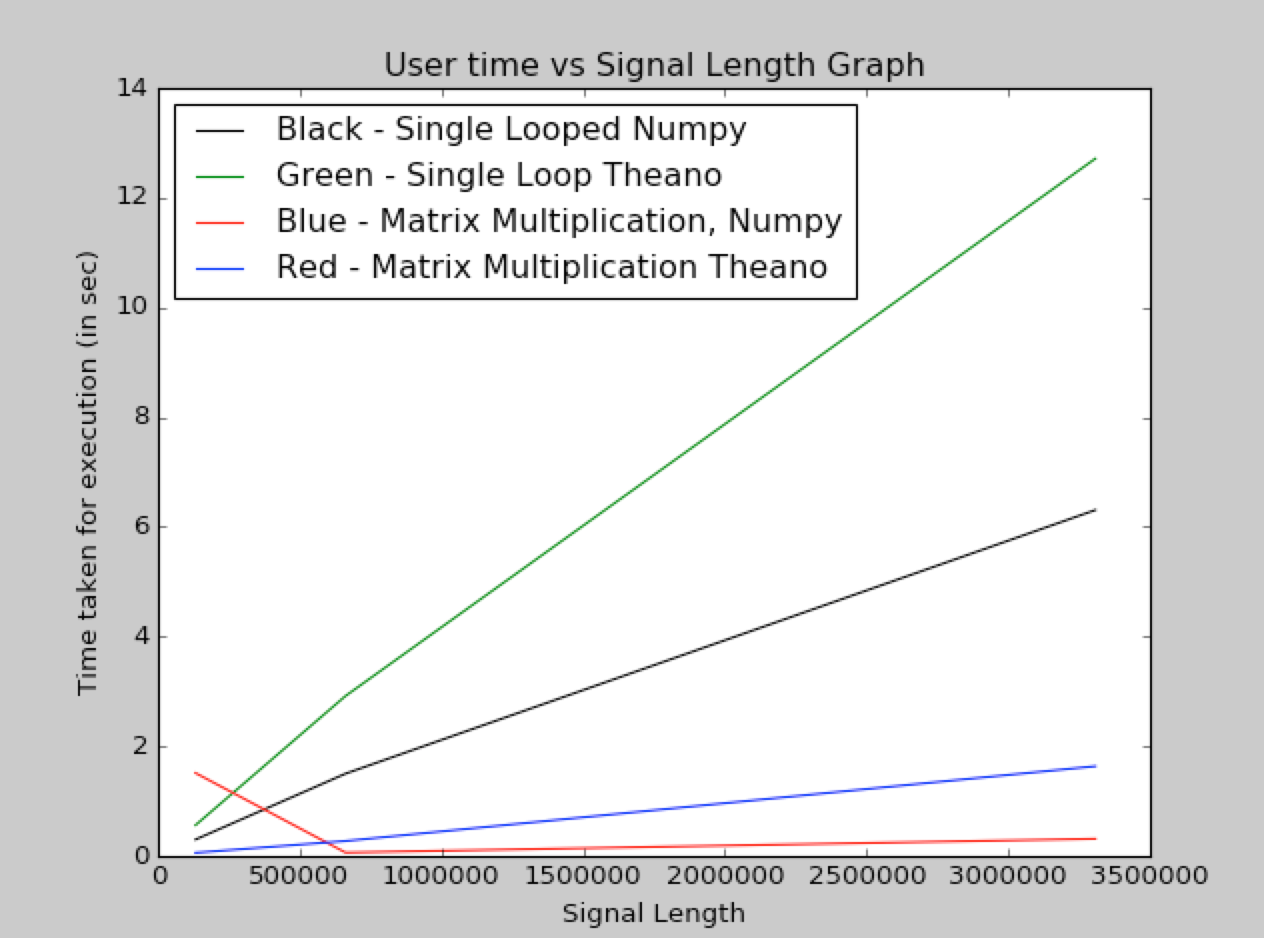
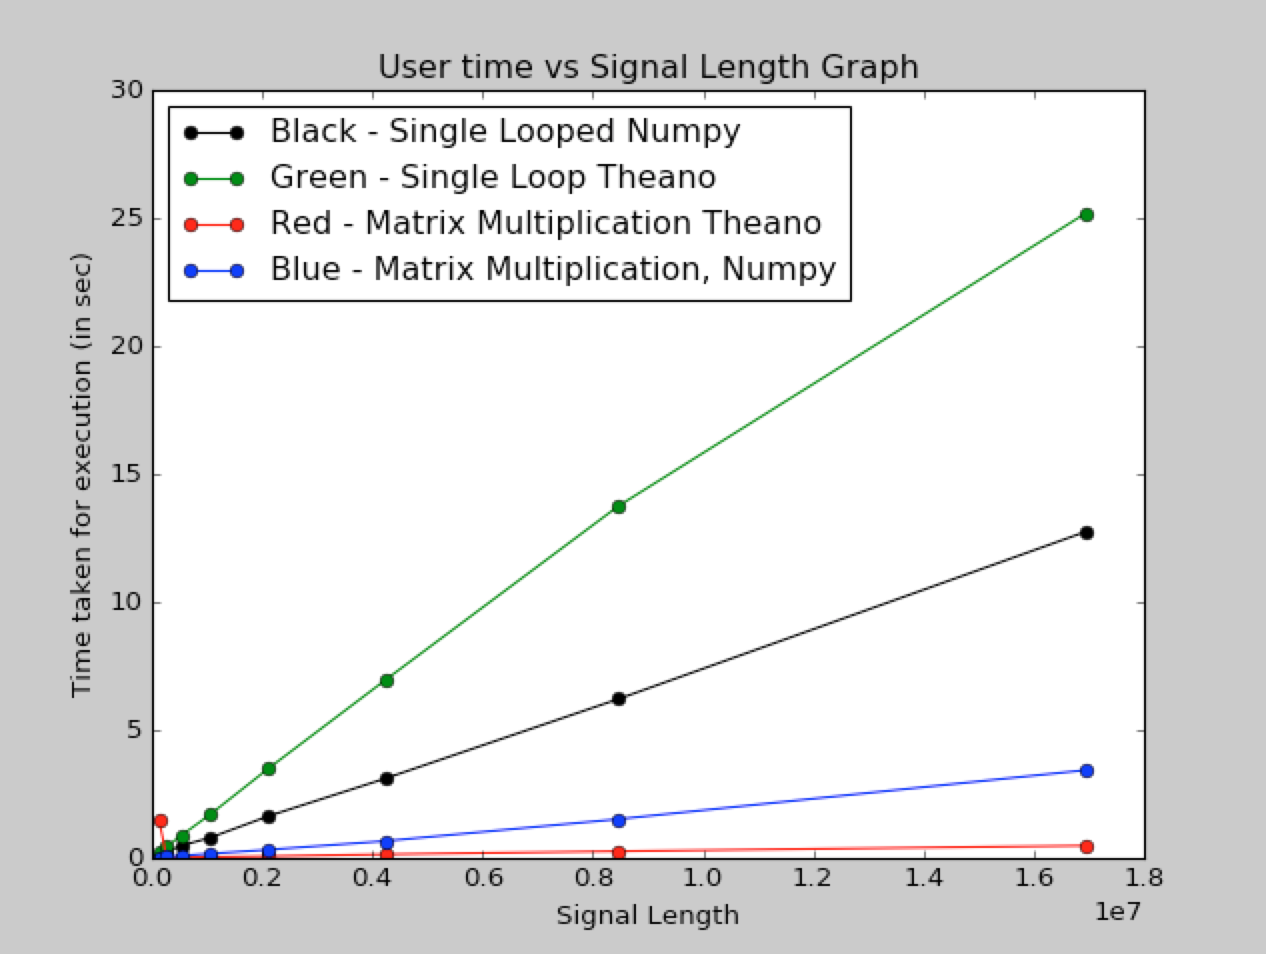
Symbols on graph

diff --git a/compute_stfts.py b/compute_stfts.py
@@ -76,7 +76,7 @@ def pre_compute_kernels(sample_freq, frequency_range, default_width, output="ker
     return kernel, max(comp_width)
 
 
-def threeloop_cqt(signal, sample_freq, channels=1):
+def threeloop_cqt(signal, max_width, time_range, frequency_range, kernel_details=None, channels=1):
     '''
     Computes the CQT of a signal using three loops.
     This is the most primitive version of the algorithm.
@@ -88,9 +88,6 @@ def threeloop_cqt(signal, sample_freq, channels=1):
     sample_freq:
         The sampling frequency of the signal
     '''
-    max_width = 1/(.03*100)*sample_freq
-    frequency_range = 100.*2.**(1./(12. * channels)*np.arange(0, 50, (1.0/channels)))
-    time_range = range(0, len(signal) - int(max_width)), int(max_width/2)
     output = np.zeros((len(time_range), len(frequency_range)), dtype=np.complex)
     prior = resource.getrusage(resource.RUSAGE_SELF)
     for m, t in enumerate(time_range):
@@ -105,13 +102,11 @@ def threeloop_cqt(signal, sample_freq, channels=1):
     print("User time for three loop computation : " + str(post.ru_utime - prior.ru_utime))
     return output, user_time
 
-def cqt_two_with_kernel(signal, s_freq, channels=1):
+def cqt_two_with_kernel(signal, max_width, time_range, frequency_range, kernel_details=None, channels=1):
     '''
     Computes the CQT of the signal using two loops without the precomputation of the kernels
     '''
-    max_width = 1/(.03*100)*s_freq
-    freq = 100.*2.**(1./(12. * channels)*np.arange(0, 50, (1.0/channels)))
-    time = range(0, int(len(signal) - max_width), int(max_width/2))
+    kernel, max_width = kernel_details
     output = np.zeros((len(time), len(freq)), dtype=np.complex)
     prior = resource.getrusage(resource.RUSAGE_SELF)
     for l_1, t in enumerate(time):
@@ -129,13 +124,10 @@ def cqt_two_with_kernel(signal, s_freq, channels=1):
  
     return output, user_time
 
-def cqt_two_without_kernel(signal, s_freq, channels=1):
+def cqt_two_without_kernel(signal, max_width, time_range, frequency_range, kernel_details=None, channels=1):
     '''
     Computes the CQT of the signal using two loops with pre-computation of the kernels
     '''
-    signal_width = 1/(.03*100)*s_freq
-    freq = 100.*2.**(1./(12. * channels)*np.array(0, 50, (1.0/channels)))
-    time_list = range(0, int(len(signal) - signal_width), int(signal_width/2))
     windows, max_width= pre_compute_kernels(s_freq, freq, signal_width, "windows")
     output = np.zeros((len(time_list), len(freq)))
     i_exp = np.arange(0, max_width)
@@ -154,22 +146,15 @@ def cqt_two_without_kernel(signal, s_freq, channels=1):
         
 # windows[l_2].extend([0] * (len() - (len(my_list))))
 
-def cqt_single(signal, sample_freq, channels=1):
+def cqt_single(signal, time_range, frequency_range, kernel_details, channels=1):
     ''' 
     Compute the CQT of a signal with a single loop
     '''
-    max_width = int(1/(.03*100)*sample_freq)
-    try:
-        frequency_range = 100.*2.**(1./(12. * channels)*np.arange(0, 50, (1.0/channels)))
-    except ValueError:
-        import pdb;
-        pdb.set_trace()
-    time_list = range(0, int(len(signal) - max_width), int(max_width/2))
-    output = np.zeros((len(time_list), len(frequency_range)))
-    kernel, max_width = pre_compute_kernels(sample_freq, frequency_range, max_width, "kernel")
+    output = np.zeros((len(time_range), len(frequency_range)))
     prior = resource.getrusage(resource.RUSAGE_SELF)
-    n_sig = np.ones((len(time_list) , max_width))
-    for l_1, t in enumerate(time_list):
+    kernel, max_width = kernel_details
+    n_sig = np.ones((len(time_range) , max_width))
+    for l_1, t in enumerate(time_range):
         output[l_1] = np.sum(signal[t:t + max_width] * kernel, axis=1)
     # output = n_sig.dot(np.asarray(kernel).transpose())
     post = resource.getrusage(resource.RUSAGE_SELF)
@@ -179,21 +164,17 @@ def cqt_single(signal, sample_freq, channels=1):
 
     return output, user_time
 
-def matrix_cqt(signal, sample_freq, channels=1):
+def matrix_cqt(signal, time_range, frequency_range, kernel_details, channels=1):
     '''
     Direct computation of CQT using numpy.
     The signal matrix is constructed by advanced indexing of the
     signal vector. The CQT is the dot product of signal with the transpose of the kernel
     matrix.
     '''
-
-    max_width = int(1/(.03*100)*sample_freq)
-    frequency_range = 100.*2.**(1./(12. * channels)*np.arange(0, 50, (1.0/channels)))
-    time_list = range(0, int(len(signal) - max_width), int(max_width/2))
-    output = np.zeros((len(time_list), len(frequency_range)))
-    kernel, max_width = pre_compute_kernels(sample_freq, frequency_range, max_width, "kernel")
+    kernel, max_width = kernel_details
+    output = np.zeros((len(time_range), len(frequency_range)))
     h = int(max_width/2)
-    n = time_list[-1] + h
+    n = time_range[-1] + h
     col_index = np.arange(0, n, h)
     row_index = np.arange(max_width)
     index = col_index[:,np.newaxis] + row_index[np.newaxis, :]
@@ -207,50 +188,21 @@ def matrix_cqt(signal, sample_freq, channels=1):
     return output, user_time
 # Computation of CQT using theano.
 
-def theano_stft(signal, width, s_freq, channels=1):
-    '''
-    Slow and not of any use. Kept for record purpose
-    '''
 
-    max_width = 1/(.03*100)*s_freq
-    freq = 100.*2.**(1./(12. * channels)*np.arange(0, 50, (1.0/channels)))
-    time = range(0, int(len(signal) - max_width), int(max_width/2))
-
-    width_var = T.cscalar() #used as i in the numpy implementation
-    freq_var = T.fscalar() #used as f 
-    time_var = T.fscalar() #used as t
-    signal_var = T.fscalar() # Components of Signal
-    stft_out = T.exp(width_var * freq_var) * signal_var
-    func = theano.function([width_var, freq_var, signal_var], stft_out, allow_input_downcast=True)
-
-    output = np.zeros((len(freq), len(time)), dtype=np.complex)
-    for l_1, t in enumerate(time):
-        for l_2, f in enumerate(freq):
-            width = 1/(.03*f)*s_freq
-            for i in range(t, t+int(width)):
-
-                output[l_2, l_1] += func(i * -6.28j, f/s_freq, signal[i]).tolist()  
-
-    return output, freq, time
- 
-
-def vectorized_theano(signal, sample_freq, channels=1):
+def vectorized_theano(signal, time_range, frequency_range, kernel_details, channels=1):
     '''
     The Code is currently being tested. It's not fully implemented.
     It's being tested with memory and speed.
     '''
-    max_width = int(1/(.03*100)*sample_freq)
-    frequency_range = 100.*2.**(1./(12. * channels)*np.arange(0, 50, (1.0/channels)))
-    time_list = range(0, int(len(signal) - max_width), int(max_width/2))
+    kernel, max_width = kernel_details
     signal_matrix = T.fvector("signal_matrix")
     kernel_matrix = T.fmatrix("kernel matrix")
-    kernel, k_size = pre_compute_kernels(sample_freq, frequency_range, max_width)
-    output = np.zeros((len(time_list), len(frequency_range)))
+    output = np.zeros((len(time_range), len(frequency_range)))
     cqt_compute = kernel_matrix * signal_matrix
     func = theano.function([kernel_matrix, signal_matrix], cqt_compute, allow_input_downcast=True)
     prior = resource.getrusage(resource.RUSAGE_SELF)
-    for l_1, t in enumerate(time_list):
-        n_signal = signal[l_1:l_1 + k_size]
+    for l_1, t in enumerate(time_range):
+        n_signal = signal[l_1:l_1 + max_width]
         output[l_1] = np.sum(func(kernel, n_signal), axis=1)
     post = resource.getrusage(resource.RUSAGE_SELF)
     user_time = post.ru_utime - prior.ru_utime
@@ -258,19 +210,16 @@ def vectorized_theano(signal, sample_freq, channels=1):
     print("User time for vectorized theano: " + str(post.ru_utime - prior.ru_utime))
     return output, user_time
 
-def matrix_theano(signal, sample_freq, channels=1):
+def matrix_theano(signal, time_range, frequency_range, kernel_details, channels=1):
     '''
     Direct computation of CQT without any loop using theano
     '''
-
-    max_width = int(1/(.03*100)*sample_freq)
-    frequency_range = 100.*2.**(1./(12.)*np.arange(0, 50, (1.0/channels)))
-    time_list = range(0, int(len(signal) - max_width), int(max_width/2))
+    kernel, max_width = kernel_details
     signal_matrix = T.fmatrix("Signal Matrix")
     kernel_matrix = T.fmatrix("Kernel Matrix")
-    kernel, k_size = pre_compute_kernels(sample_freq, frequency_range, max_width)
     h = int(max_width/2)
-    n = time_list[-1] + h
+    import pdb;pdb.set_trace()
+    n = time_range[-1] + h
     col_index = np.arange(0, n, h)
     row_index = np.arange(max_width)
     index = col_index[:,np.newaxis] + row_index[np.newaxis, :]
@@ -292,15 +241,15 @@ def generate_signal(signal_base, mul_factor=1):
     return pure_signal
 
 
-def plot_graph(cqt_values, title, mode, labels, annotate_coordinates, axes_label):
+def plot_graph(cqt_values, title, mode, labels, axes_label):
     fig, ax = plt.subplots()
     plt.title(title)
     colour_list = ['black', 'green', 'red', 'blue']
     colour_labelmap = ["Black - Single Looped Numpy", "Green - Single Loop Theano",
-                       "Blue - Matrix Multiplication, Numpy", "Red - Matrix Multiplication Theano"]
+                       "Red - Matrix Multiplication Theano", "Blue - Matrix Multiplication, Numpy"]
     plot_array = []
     for index, cv in enumerate(cqt_values):
-        temp_plots = ax.plot(labels, cv, colour_list[index], label=colour_list[index])
+        temp_plots = ax.plot(labels, cv, colour_list[index], marker='o')
         plot_array.append(temp_plots)
     plt.legend(tuple([i[0] for i in plot_array]), tuple(colour_labelmap), loc=0)
     ax.ticklabel_format(useOffset=False)
@@ -309,32 +258,32 @@ def plot_graph(cqt_values, title, mode, labels, annotate_coordinates, axes_label
     plt.ylim()
     plt.show()
 
-def usertime_graph(signal_base, mul_factor):
+def usertime_graph(signal_base, mul_factor, final_signal, time_range, frequency_range, kernel_details, max_width):
     mul_count = 0
     three_loop, two_kernel, two_w_kernel = [], [], []
     single_cqt, theano_vectorized, theano_matrix = [], [], []
     direct_cqt = []
     signal_length = []
     while  True:
-        if mul_count >= 3:
+        if mul_count >= 8:
             break
         final_signal = generate_signal(signal_base, mul_factor)
-        single_cqt.append(cqt_single(final_signal, 44100)[1])
-        theano_vectorized.append(vectorized_theano(final_signal, 44100)[1])
-        theano_matrix.append(matrix_theano(final_signal, 44100)[1])
-        direct_cqt.append(matrix_cqt(final_signal, 44100)[1])
+        time_range = np.arange(0, len(final_signal) - int(max_width), int(max_width/2))
+        single_cqt.append(cqt_single(final_signal, time_range, frequency_range, kernel_details)[1])
+        theano_vectorized.append(vectorized_theano(final_signal, time_range, frequency_range, kernel_details)[1])
+        theano_matrix.append(matrix_theano(final_signal, time_range, frequency_range, kernel_details)[1])
+        direct_cqt.append(matrix_cqt(final_signal, time_range, frequency_range, kernel_details)[1])
         signal_length.append(signal_base)
         signal_base = signal_base * mul_factor
         mul_count += 1
     cqt_values = [single_cqt, theano_vectorized, theano_matrix, direct_cqt]
     plt_title = "User time vs Signal Length Graph"
     axes_label = ["Signal Length", "Time taken for execution (in sec)"]
-    annotate_coordinates = [(653226, 6.5), (653226, 7.5), (653226, 8.5), (653226, 9.5)]
-    plot_graph(cqt_values, plt_title, "user-time", signal_length, annotate_coordinates, axes_label)
+    plot_graph(cqt_values, plt_title, "user-time", signal_length, axes_label)
 
     # plt.xticks(np.arange(signal_length[0], signal_length[-1] , signal_length[1] - signal_length[0]))
 
-def channel_graph(final_signal, channels):
+def channel_graph(final_signal, channels, time_range, sample_freq, max_width):
     three_loop, two_kernel, two_w_kernel = [], [], []
     single_cqt, theano_vectorized, theano_matrix = [], [], []
     direct_cqt = []
@@ -343,25 +292,31 @@ def channel_graph(final_signal, channels):
         # three_loop.append(threeloop_cqt(final_signal, 44100, i)[1])
         # two_kernel.append(cqt_two_with_kernel(final_signal, 44100, i)[1])
         # two_w_kernel.append(cqt_two_without_kernel(final_signal, 44100, i)[1])
-        single_cqt.append(cqt_single(final_signal, 44100, i)[1])
-        theano_vectorized.append(vectorized_theano(final_signal, 44100, i)[1])
-        theano_matrix.append(matrix_theano(final_signal, 44100, i)[1])
-        direct_cqt.append(matrix_cqt(final_signal, 44100, i)[1])
+        frequency_range = 100. * 2. ** (1./(12. * i) * np.arange(0, 50, (1.0/i)))
+        kernel_details = pre_compute_kernels(sample_freq, frequency_range, max_width)
+        single_cqt.append(cqt_single(final_signal, time_range, frequency_range, kernel_details, channels=i)[1])
+        theano_vectorized.append(vectorized_theano(final_signal, time_range, frequency_range, kernel_details, channels=i)[1])
+        theano_matrix.append(matrix_theano(final_signal, time_range, frequency_range, kernel_details, channels=i)[1])
+        direct_cqt.append(matrix_cqt(final_signal, time_range, frequency_range, kernel_details, channels=i)[1])
     cqt_values = [single_cqt, theano_vectorized, theano_matrix, direct_cqt]
-    annotate_coordinates = [(2.3, 0.4), (2.3, 0.42), (2.3, 0.44), (2.3, 0.46)]
     plt_title = "Variable channel vs Time Graph"
     axes_label = ["Number of Channels", "Time taken for execution (in sec)"]
-    plot_graph(cqt_values, plt_title, "channel", channels, annotate_coordinates, axes_label)
+    plot_graph(cqt_values, plt_title, "channel", channels, axes_label)
 
 if __name__ == '__main__':
     signal_base = 132300
-    mul_factor = 5
-
+    mul_factor = 2
+    sample_freq = 44100
+    max_width = 1/(.03*100)*sample_freq
+    frequency_range = 100.*2.**(1./(12.)*np.arange(0, 50))
+    final_signal = generate_signal(signal_base)
+    time_range = np.arange(0, len(final_signal) - int(max_width), int(max_width/2))
+    kernel_details = pre_compute_kernels(sample_freq, frequency_range, max_width)
     channels = np.arange(1, 5)
-    channel_graph(generate_signal(signal_base), channels)
-    usertime_graph(signal_base, mul_factor)
-    matrix = matrix_cqt(generate_signal(signal_base), 44100)
-    plot_matrix = matrix[0].transpose()
+    channel_graph(final_signal, channels, time_range, sample_freq, max_width)
+    #usertime_graph(signal_base, mul_factor, final_signal, time_range, frequency_range, kernel_details, max_width)
+    # matrix = matrix_cqt(final_signal, 44100)
+    # plot_matrix = matrix[0].transpose()
     '''
     pylab.imshow(np.log(np.abs(plot_matrix)), origin='lower', aspect='auto')
     pylab.xlabel('Time (sec)')
